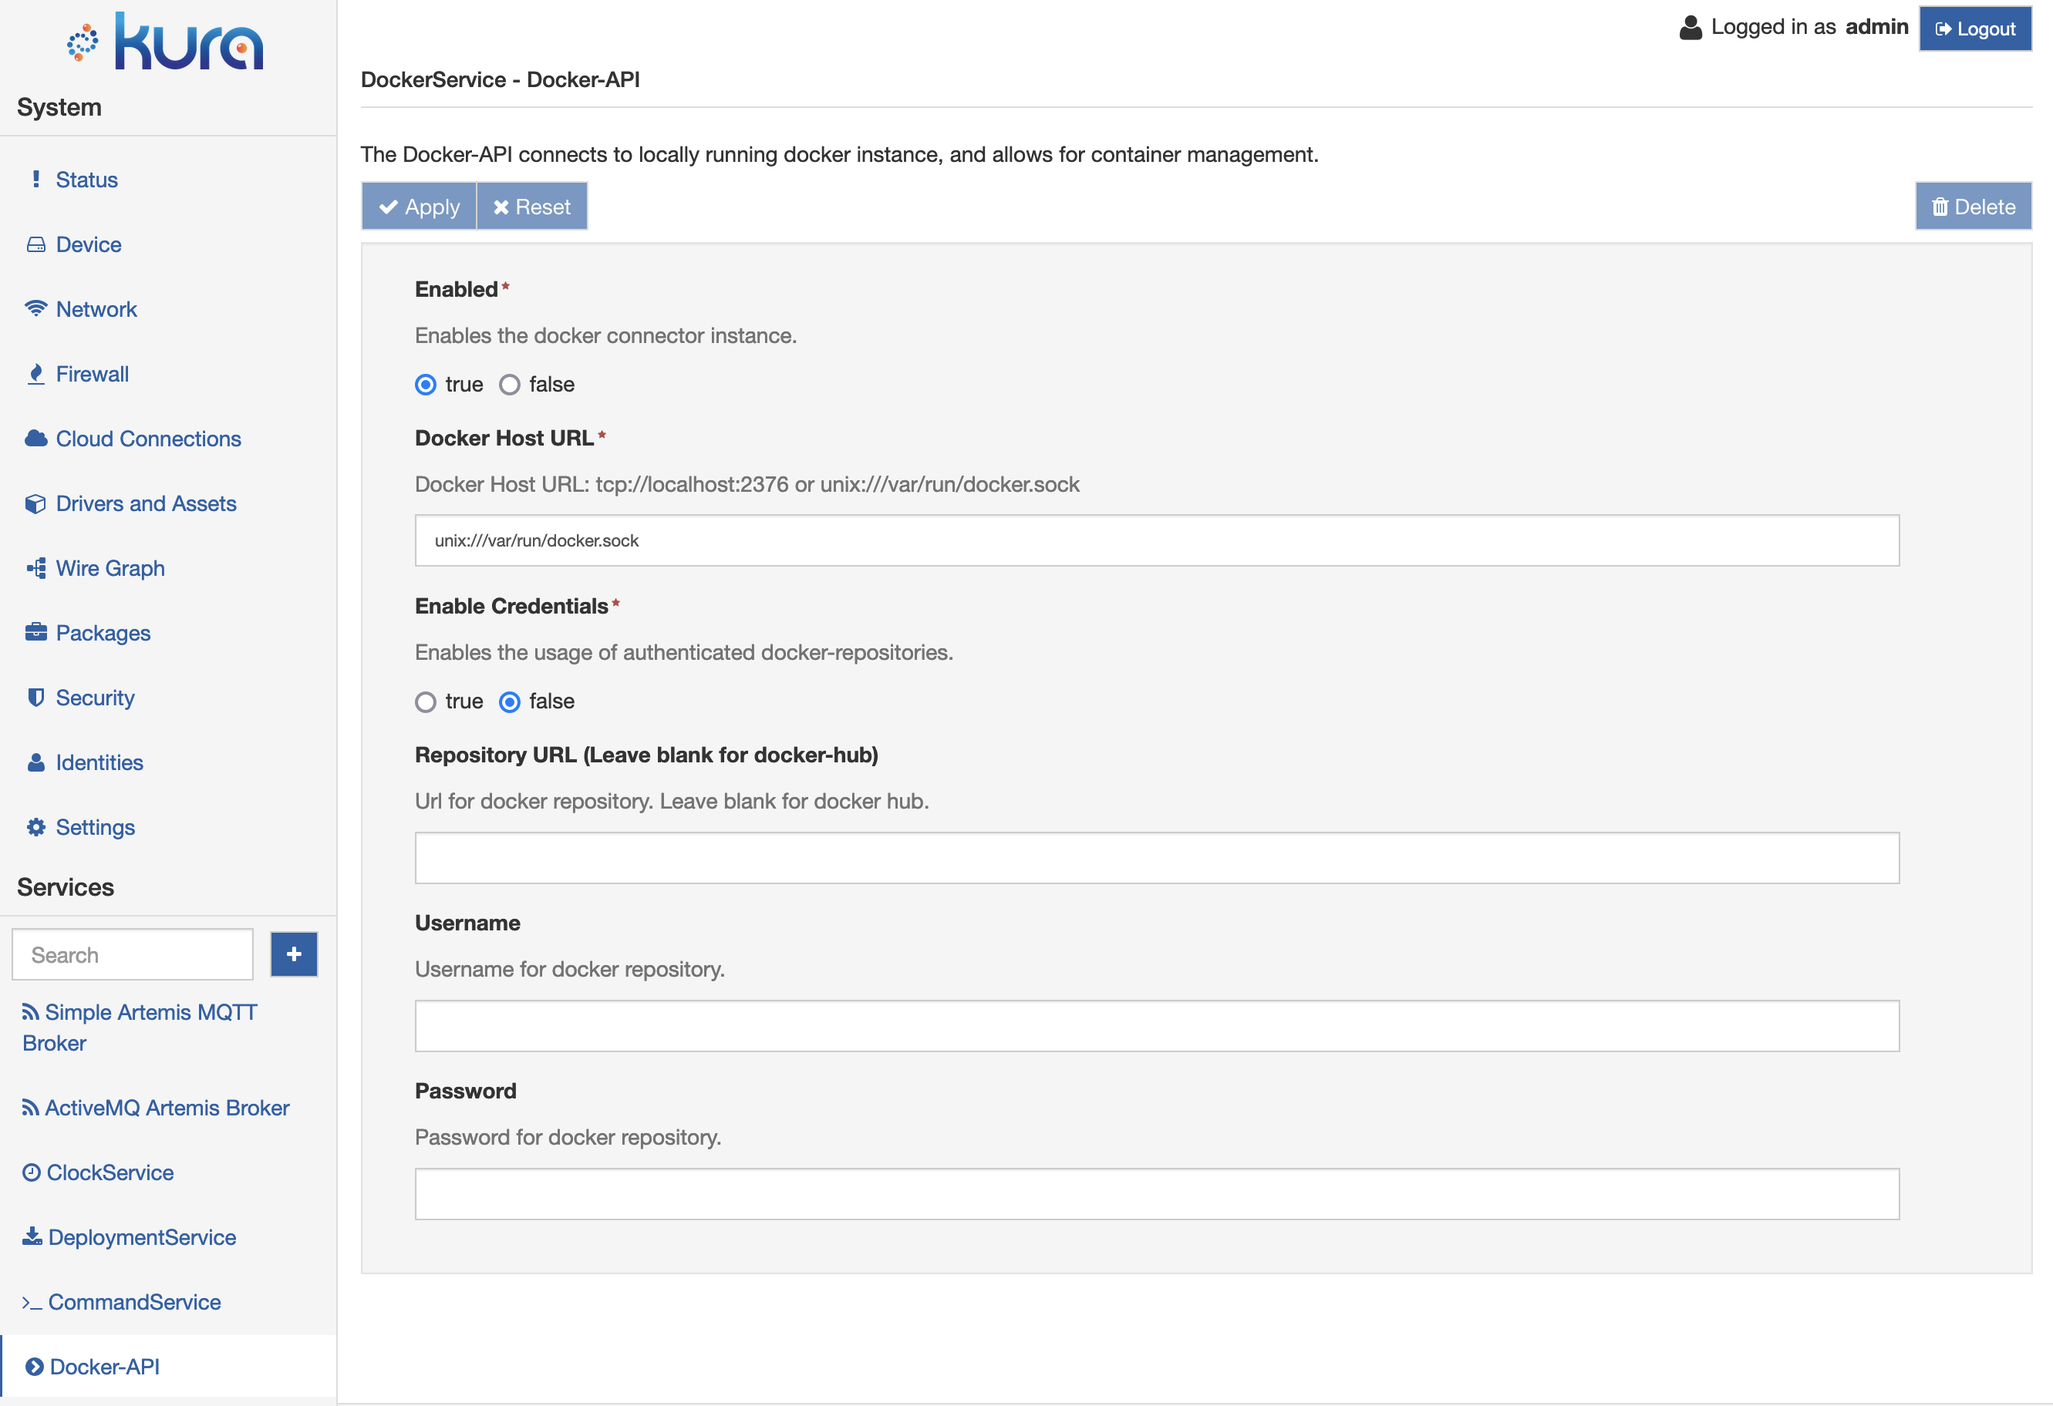
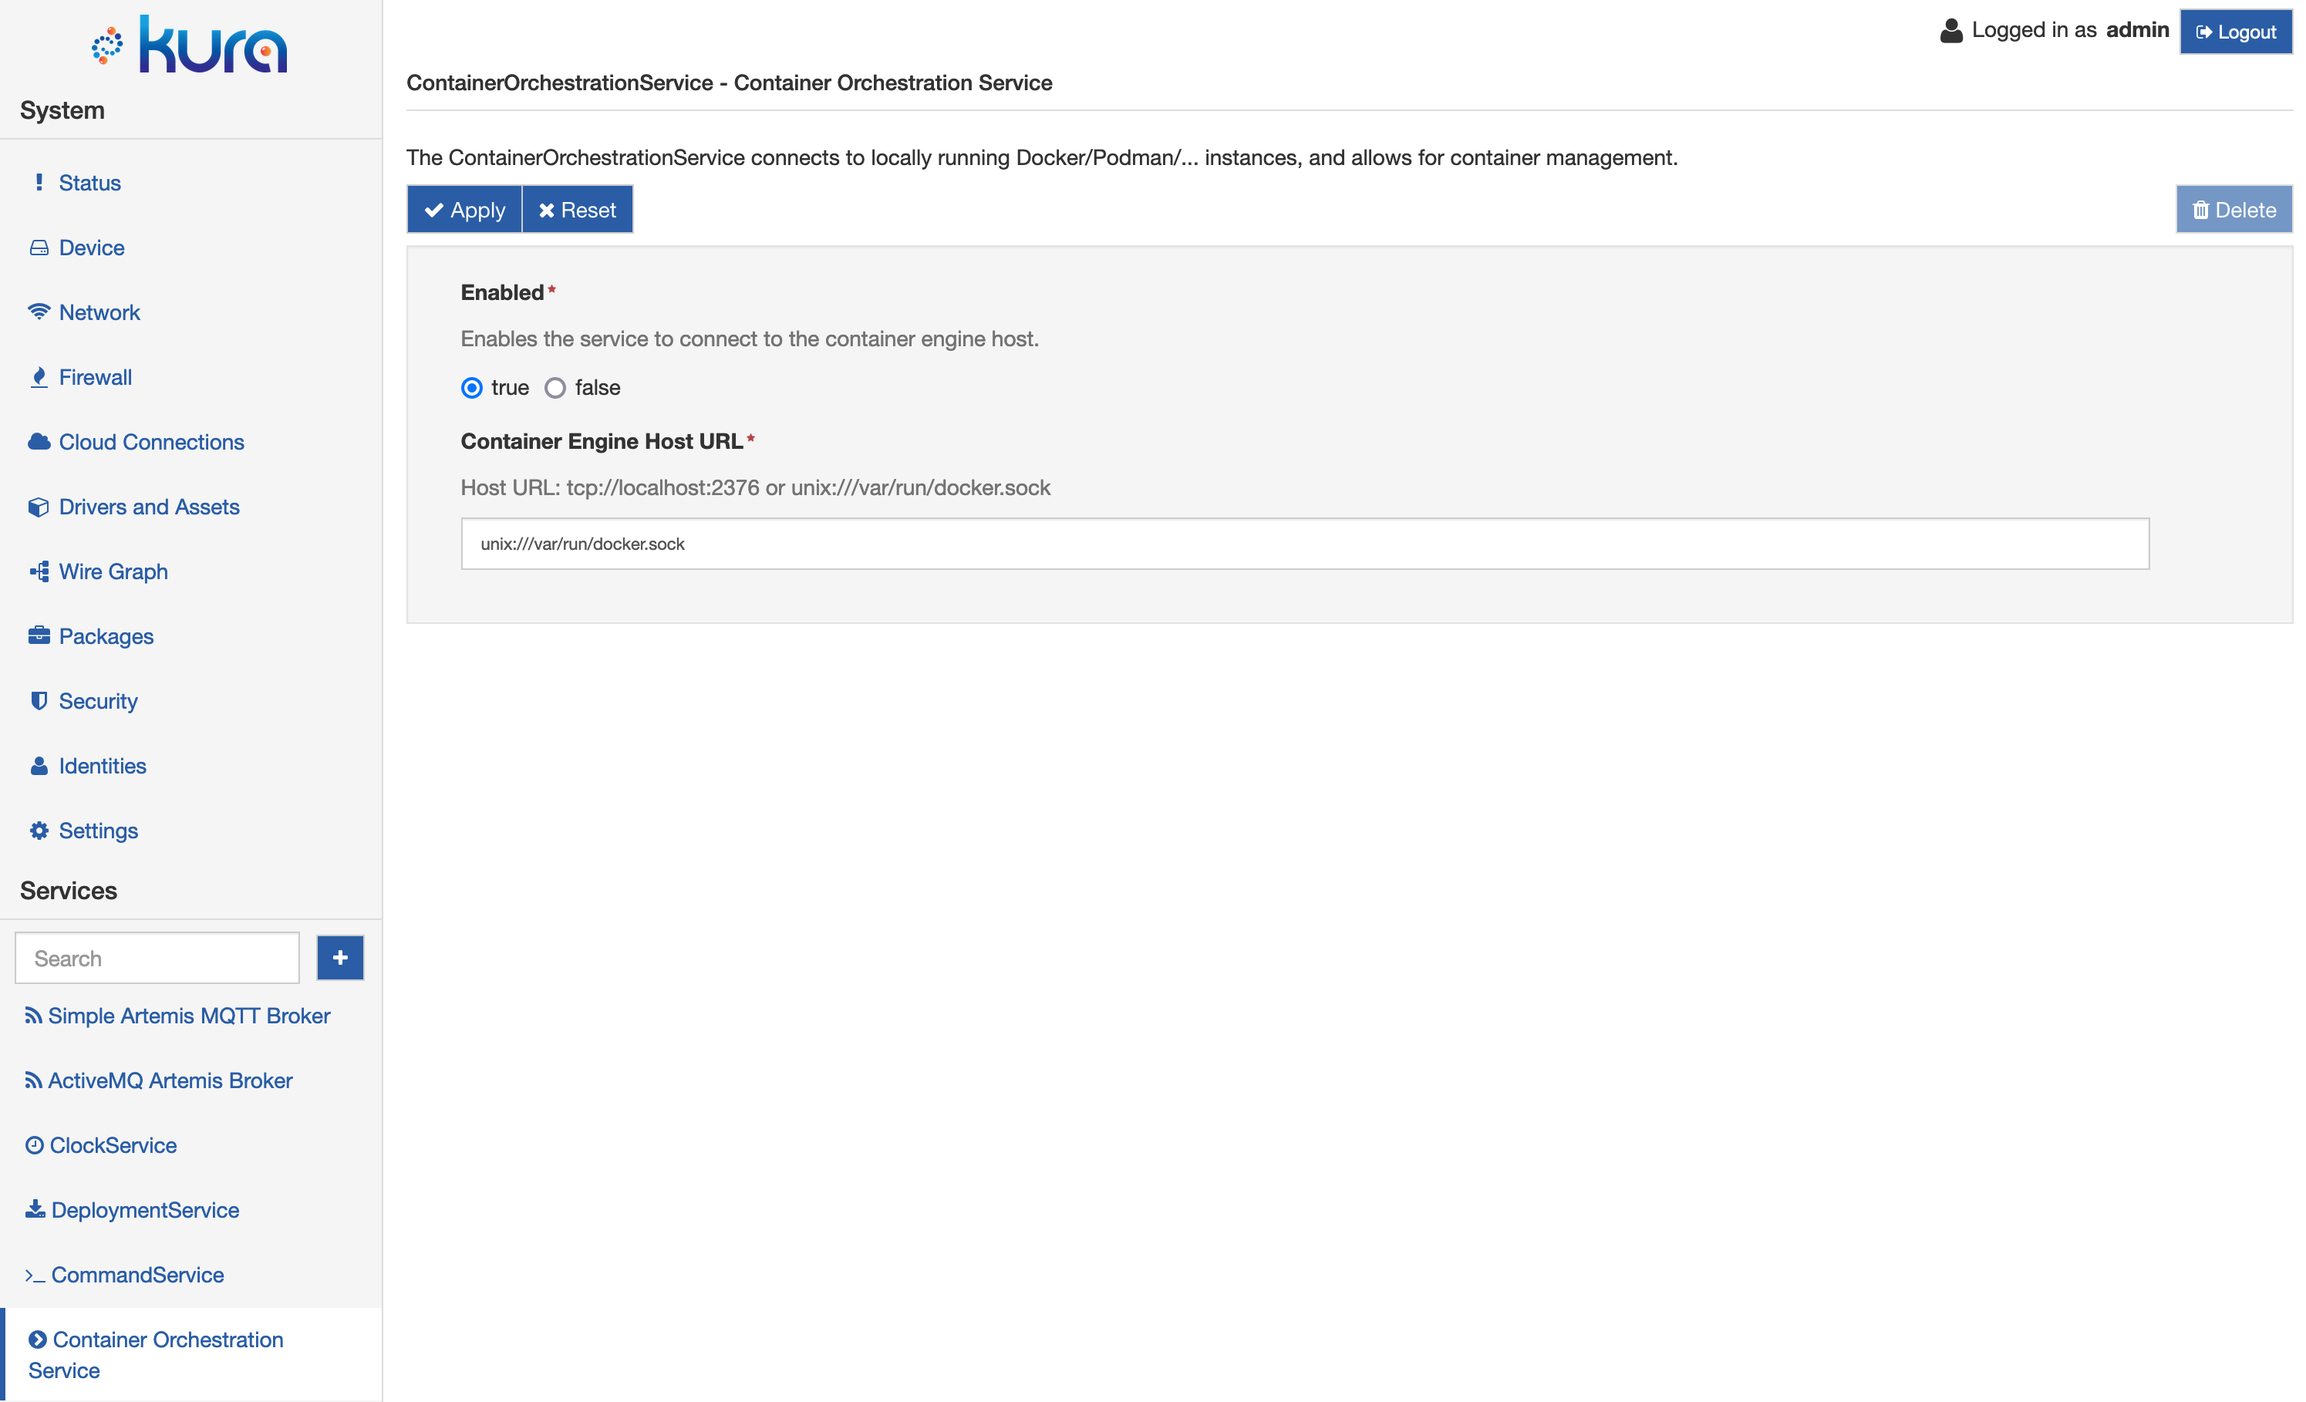
updated api-docs

diff --git a/_posts/builtin/2022-02-23-container-orchestration-provider.md b/_posts/builtin/2022-02-23-container-orchestration-provider.md
@@ -18,48 +18,62 @@ For this bundle to function appropriately, the gateway must have docker installe
 
 ## Starting the Service
 
-To use this service select the **Docker-API** option located in the **Services** area. The docker-api service provides the following parameters: **Enabled**--activates the service when set to true, and **Docker Host URL**--provides a string that tells the service where to find the docker engine (best left to the default value). Optionally a user can provide a Repository/Registry URL and respective credentials so that containers will be pulled from an alternative source such as AWS-ECR.
+To use this service select the **ContainerOrchestrationService** option located in the **Services** area. The ContainerOrchestrationService provides the following parameters: 
+- **Enabled**--activates the service when set to true
+- **Docker Host URL**--provides a string that tells the service where to find the docker engine (best left to the default value).
 
 ![Container-API]({{ site.baseurl }}/assets/images/builtin/container_orchestrator/enable_api.png)
 
 ## Creating your first container.
 
-To create a container, select the + icon (Create a new component) under **services**. A pop up dialog box will appear. In the field **Factory** select **org.eclipse.kura.container.provider.ConfigurableGenericDockerService** from the drop-down. Then, using the **Name** field, enter the name of the container you wish to create and Finally press submit to create the component.
+To create a container, select the + icon (Create a new component) under **services**. A popup dialogue box will appear. In the field **Factory** select **org.eclipse.kura.container.provider.ContainerInstance** from the drop-down. Then, using the **Name** field, enter the name of the container you wish to create and Finally press submit to create the component.
 
 ![Container-API]({{ site.baseurl }}/assets/images/builtin/container_orchestrator/create_container.png)
 
-After pressing submit, a new component will be added under the **services** tab, with the name that was selected in the dialog. Select this component to finish configuring the container.
+After pressing submit, a new component will be added under the **services** tab, with the name that was selected in the dialogue. Select this component to finish configuring the container.
 
-## Configuring the container
+##Configuring the container
 
 To begin configuring the container, look under **Services** and select the item which has the name set in the previous step.
 
 Containers may be configured using the following fields:
 
-- **Enabled** - When true, api will create the described container. When false api will not create the container, or will destroy the container if already running.
+- **Enabled** - When true, API will create the described container. When false the API will not create the container or will destroy the container if already running.
   
-- **Image Name** - Describes the docker image that will be used to create the container. Remember to ensure that the selected image supports the architecture of the host machine, or else the container will not be able to start.
+- **Image Name** - Describes the image that will be used to create the container. Remember to ensure that the selected image supports the architecture of the host machine, or else the container will not be able to start.
   
 - **Image Tag** - Describes the version of the docker image that will be used to create the container.
+
+- **Authentication Registry URL** - URL for an alternative registry to pull images from. (If the field is left blank, credentials will be applied to Docker-Hub). Please see the [Authenticated Containers ](#authenticated-containers) document for more information about connecting to different popular repositories.
+
+- **Authentication Username** - Describes the username to access the Docker repository entered above.
+
+- **Password** - Describes the password to access the alternative Docker repository.
+
+- **Image Download Retries** - Describes the number of retries the framework will attempt to pull the image before giving up.
+
+- **Image Download Retry Interval** - Describes the amount of time the framework will wait before attempting to pull the image again.
+
+- **Image Download Timeout** - Describes the amount of time the framework will let the image download before timeout.
   
-- **Internal Ports** - This field accepts a comma separated list of ports that will be internally exposed on the spun up docker container.
+- **Internal Ports** - This field accepts a comma-separated list of ports that will be internally exposed on the spun-up docker container.
   
-- **External Ports** - This field accepts a comma separated list of ports that will be externally exposed on the host machine.
+- **External Ports** - This field accepts a comma-separated list of ports that will be externally exposed on the host machine.
   
 - **Privileged Mode** - This flag if enabled will give the container root capabilities to all devices on the host system. Please be aware that setting this flag can be dangerous, and must only be used in exceptional situations.
   
-- **Environment Variables (optional)** - This field accepts a comma separated list of environment variables, which will be set inside the container when spun up.
+- **Environment Variables (optional)** - This field accepts a comma-separated list of environment variables, which will be set inside the container when spun up.
   
-- **Volume Mount (optional)** - This field accepts a comma separated list of system-to-container file mounts. This allows for the container to access files on the host machine.
+- **Volume Mount (optional)** - This field accepts a comma-separated list of system-to-container file mounts. This allows for the container to access files on the host machine.
   
-- **Peripheral Device (optional)** - This field accepts a comma separated list of device paths. This parameter allows for devices to be passed through from the host to the container.
+- **Peripheral Device (optional)** - This field accepts a comma-separated list of device paths. This parameter allows for devices to be passed through from the host to the container.
 
-- **Logger Type** - This field provides a dropdown selection of supported container logging drivers.
-  
-- **Logger Parameters (optional)** - This field accepts a comma separated list of logging parameters. More information can be found in the [Docker logger documentation](https://docs.docker.com/config/containers/logging/configure/#supported-logging-drivers).
-  
+- **Logger Type** - This field provides a drop-down selection of supported container logging drivers.
 
-After specifying container parameters, ensure to set **Enabled** to **true** and press **Apply**. Docker will then pull the respective image locally, or through docker hub, spin up and start the container. If the gateway is reset (power cycled), and the container and Docker-service is set to **enabled**, Kura will automatically start the container again upon startup. 
+- **Logger Parameters (optional)** - This field accepts a comma-separated list of logging parameters. More information can be found in the Docker logger documentation.
+
+After specifying container parameters, ensure to set **Enabled** to **true** and press **Apply**. Docker will then pull the respective image, spin up and start the container. If the gateway is reset (power cycled), and the container and Docker-service are set to **enabled**, ESF will automatically start the container again upon startup. 
+
 ![Supported-Container-Configuration]({{ site.baseurl }}/assets/images/builtin/container_orchestrator/container_configuration.png)
 
 ## Stopping the container
@@ -77,85 +91,84 @@ The Container Orchestration service also provides the user with an intuitive con
 
 ***
 
+# Authenticated Containers
+The Container Orchestrator provider allows the user to pull images from private and password-protected registries. The following document will provide examples of how to connect to some popular registries.
+
+
+{% include alerts.html 
+message="
+These guides make the following two assumptions.
+
+1) That you have already configured the Container Orchestrator and have a container instance already created. Please see the [usage](#how-to-use-the-container-orchestration-provider) doc, to learn the basics of the orchestrator.
+
+2) That the image you are trying to pull supports the architecture of the gateway.
+" %}
+
+### Private Docker-Hub Registries
+
+#### Preparation:
+ - have a Docker Hub account (its credentials), and a private image ready to pull. 
+
+#### Procedure:
+
+1) Populate the image name field. The username containing the private image must be placed before the image name separated by a forward slash. This is demonstrated below:
+- **Image Name: ** ```<Docker-Hub username>/<image name>``` for exmaple```eurotech/esf```.
+
+2) Populate the credential fields: 
+- **Authentication Registry URL:** This field should be left blank.
+- **Authentication Username:** Your Docker Hub username.
+- **Password:** Your Docker Hub password.
+![Authenticated-Docker-Hub]({{ site.baseurl }}/assets/images/builtin/container_orchestrator/authenticated-docker-hub.png)
+
+### Amazon Web Services - Elastic Container Registries (AWS-ECR)
+#### Preparation:
+- Have access to an Amazon ECR instance.
+- Have the [AWS-CLI](https://aws.amazon.com/cli/) tool installed and appropriately configured on your computer. 
+- Have access to your AWS ECR web console.
+
+#### Procedure:
+
+1) Sign in to your amazon web console, navigate to ECR and identify which container you will like to pull onto the gateway. Copy the URI of the container. This URI will reveal the information required for the following steps. Here is how to decode the URI ```<identifier>.dkr.ecr.<ecr-region>.amazonaws.com/<directory>/<image name>:<image tag>```.
+
+2) Generating an AWS-ECR access password. Open a terminal window on the machine with aws-cli installed and enter the following command ```aws ecr get-login-password --region <ecr-region>```. Your ECR region can be found by inspecting the container URI string copied in the previous step. This command will return a long string which will be used as the repo password in the gateway.
+
+3) Populating information on the gateway. 
+ - **Image Name: ** enter the full URI without the tag.```<identifier>.dkr.ecr.<ecr-region>.amazonaws.com/<directory>/<image name>```
+- **Image Tag:** enter only the image tag found at the end of the URI  ```<image tag>```
+- **Authentication Registry URL:** Paste only the part of the URI before the image name   ```<identifier>.dkr.ecr.<ecr-region>.amazonaws.com/<directory>/```
+- **Authentication Username:** will be ```AWS```
+- **Password:** will be the string created in step two.
+
+A fully configured container set to pull AWS will look like the following.
+![Authenticated-AWS-ECR]({{ site.baseurl }}/assets/images/builtin/container_orchestrator/authenticated-aws-ecr.png)
+
+***
+
 # How to leverage the Container Orchestration Provider API?
 
-The Kura Container Orchestration Provider bundle exposes two main classes: 1) DockerService, 2) ContainerDescriptor.
+The Container Orchestration Provider exposes an API that can be leveraged by other framework plugins. The following is an overview of how these APIs work together.
 
 ![API-Overview]({{ site.baseurl }}/assets/images/builtin/container_orchestrator/api-overview.png)
 
-## DockerService Interface
-This interface is used to directly communicate with the running docker instance. It exposes methods for listing, creating, and stopping containers, and utilizes an instantiated ContainerDescriptor object as a parameter.
+##ContainerOrchestrationService
+The ContainerOrchestrationService is used to directly communicate with the running container engine. It exposes methods for listing, creating, and stopping containers. This class utilizes an instantiated ContainerConfiguration object as a parameter for container creation.
 
-## ContainerDescriptor
-The ContainerDescriptor class, allows you to define a container to create. Using the embedded builder class, one can define many container related parameters such as name, image, ports and volume mounts.
+##ContainerConfiguration
+The ContainerConfiguration class, allows you to define a container to create. Using the embedded builder class, one can define many container-related parameters such as name, image, ports and volume mounts.
 
-# Inventory-V1 API
-Using the API exposed by Inventory-V1, one can start and stop docker containers via external applications such as Everywhere Cloud.
+##ContainerInstanceDescriptor
+The ContainerInstanceDescriptor class is used to describe a container that has already been created. This class contains runtime information such as the ID of the container.
 
-## List All Containers
+##ContainerState
+The ContainerState is a class that exposes an enum of container states tracked by the framework.
 
-This operation lists all the containers installed in the gateway.
+##PasswordRegistryCredentials
+The PasswordRegistryCredentials class stores password credentials when provisioning a container to pull from an alternative password-protected registry.
 
-* Request Topic:
-  * **$EDC/account_name/client_id/INVENTORY-V1/GET/containers**
-* Request Payload:
-  * Nothing application-specific beyond the request ID and requester client ID
-* Response Payload:
-  * Installed containers serialized in JSON format
+##PasswordRegistryCredentials
+The PasswordRegistryCredentials class stores password credentials when provisioning a container to pull from an alternative password-protected registry.
 
-The following JSON message is an example of what this request outputs:
-    
-    {
-      "containers":
-      [
-        {
-          "name":"docker_container_1",
-          "version":"nginx:latest",
-          "type":"DOCKER"
-        }
-      ]
-    }
-
-The container JSON message is comprised of the following elements:
-    - Name: The name of the docker container.
-    - Version: describes both the container's respective image and tag separated by a colon.
-    - Type: denotes the type of inventory payload
-
-## Start Container
-
-This operation allows starting a container installed on the gateway.
-* Request Topic
-  * $EDC/account_name/client_id/INVENTORY-V1/EXEC/containers/_start
-* Request Payload
-  * A JSON object that identifies the target container must be specified in payload body. This payload will be described in the following section
-* Response Payload
-  * Nothing application specific
-
-## Stop Container
-
-* Request Topic
-  * $EDC/account_name/client_id/INVENTORY-V1/EXEC/containers/_stop
-* Request Payload
-  * A JSON object that identifies the target container must be specified in payload body. This payload will be described in the following section.
-* Response Payload
-  *Nothing application specific
-
-## JSON identifier/payload for start and stop requests
-
-The requests for starting and stopping a container require the application to include a JSON object in request payload for selecting the target container. Docker enforces unique container names on a gateway, and thus they can reliably be used as an identifier.
-
-Example 1:
-    
-    {
-    "name":"docker_container_1",
-    "version":"nginx:latest",
-    "type":"DOCKER"
-    }
-
-
-Example 2:
-    
-    {
-    "name":"docker_container_1",
-    }
-
+{% include alerts.html 
+message="
+The Container Orchestration Provider exports an MQTT-Namespace API. This API can be used to manage containers via MQTT requests from external applications such as Everywhere Cloud. Please visit the  [Remote Gateway Inventory via MQTT](../ref/mqtt-namespace.html) documentation for more information.
+" %}
